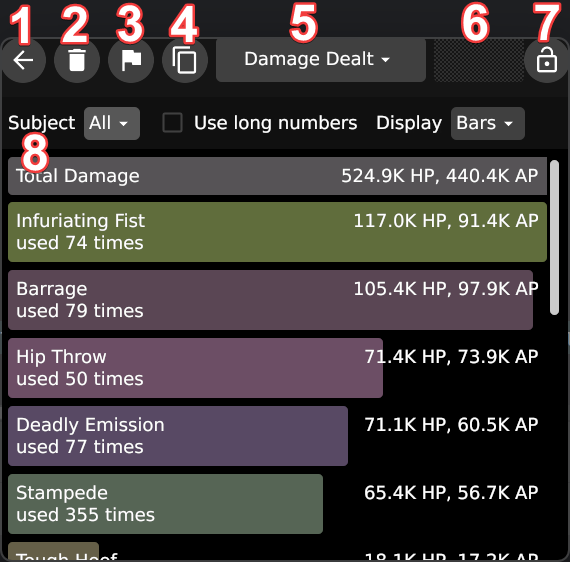
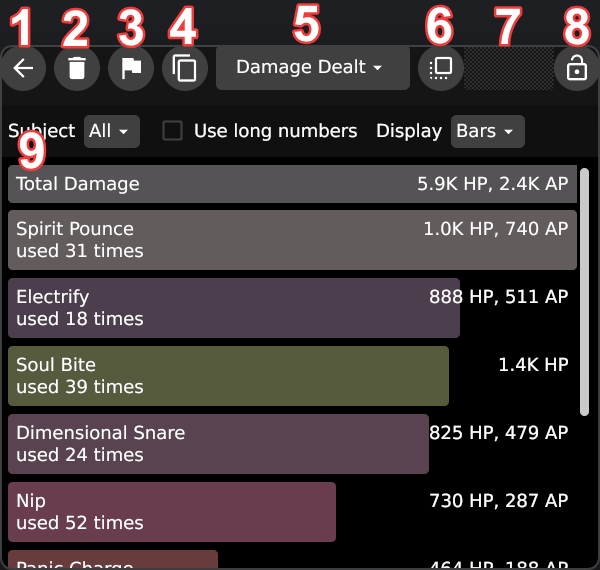
Updated README.md

diff --git a/README.md b/README.md
@@ -80,9 +80,10 @@ You can disable things you don't want to see in the software, if you want
 4. Copies current tab's contents with current settings into clipboard
    - You can use that to quickly share your statistics with other people on Discord for example
 5. Tab selection dropdown, you can use it to go to other statistics collected by the software
-6. Window grab area (works on Windows only), you can use it to move the window around
-7. Window grab lock (also Windows only), it disables previously mentioned grab area, so you can't accidentally move the window
-8. Current tab's contents, displays all the statistics found on current tab
+6. Windowed mode button, allows you get out of maximized mode if you double click the grab area
+7. Window grab area (works on Windows only), you can use it to move the window around
+8. Window grab lock (also Windows only), it disables previously mentioned grab area, so you can't accidentally move the window
+9. Current tab's contents, displays all the statistics found on current tab
    - You can use controls found in this area to change settings of current tab
 
 ### Graph Controls